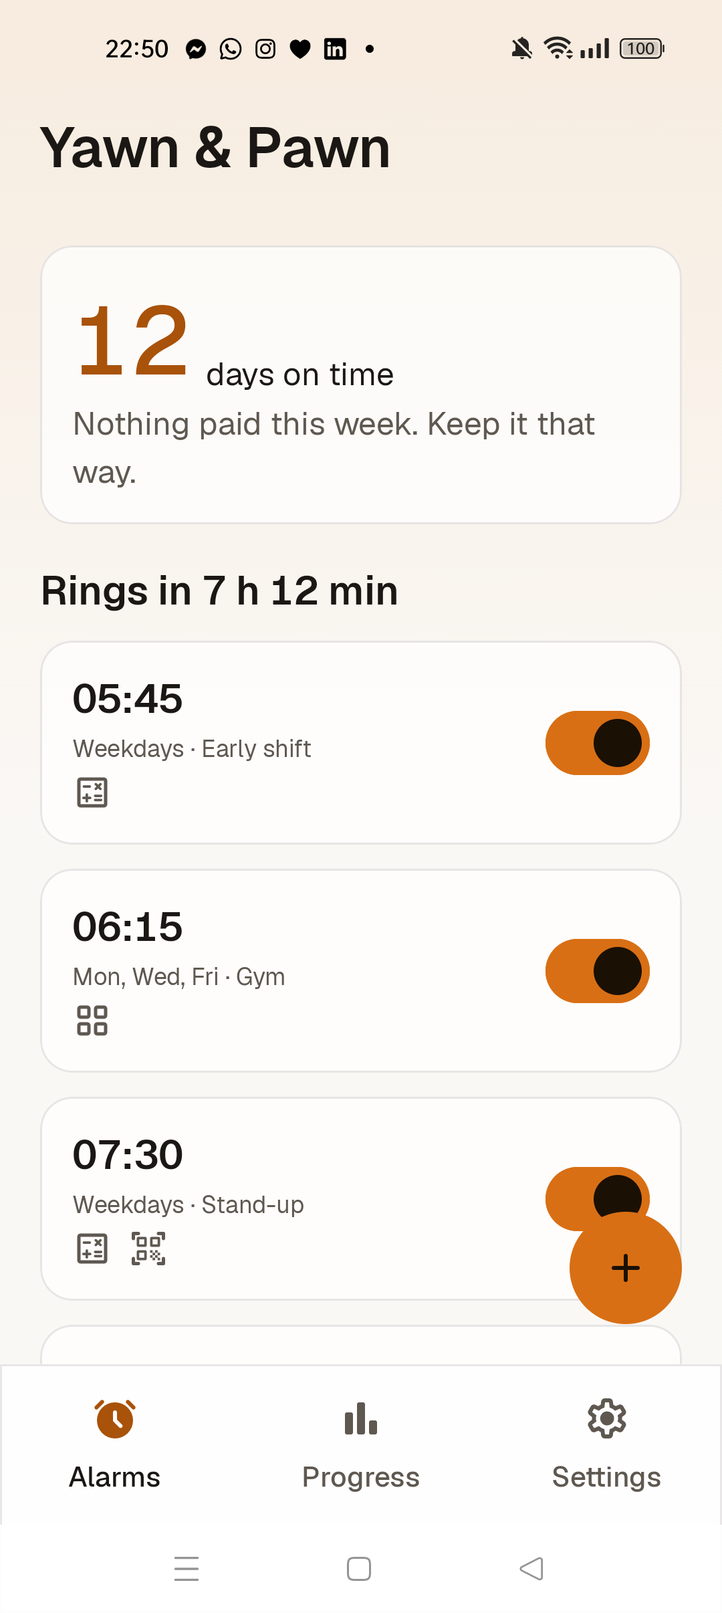
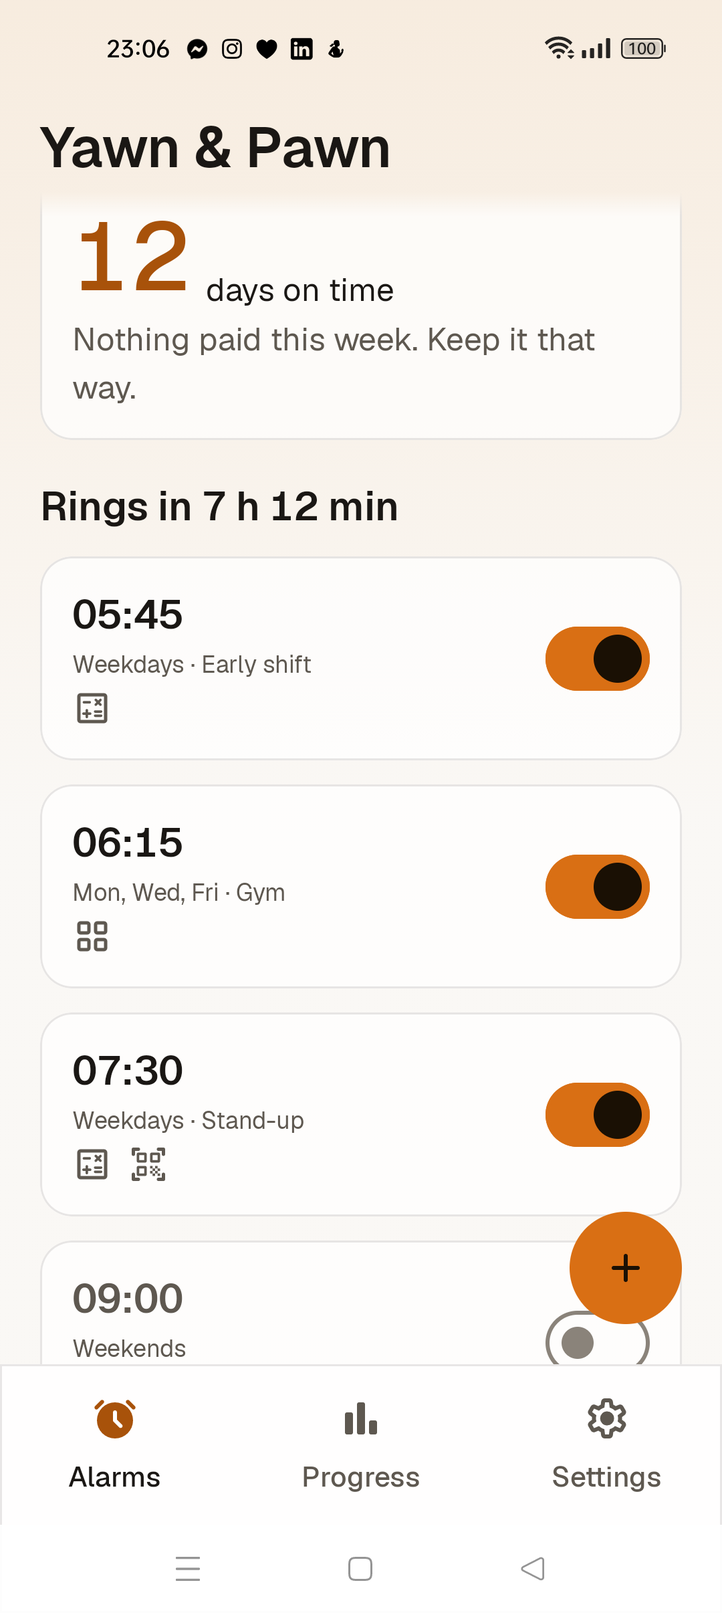
fix(preview): collapsed Home header fades content, one-row chips, FAB clearance

diff --git a/composeApp/src/commonMain/kotlin/com/yawnandpawn/app/ui/home/HomeHeader.kt b/composeApp/src/commonMain/kotlin/com/yawnandpawn/app/ui/home/HomeHeader.kt
@@ -1,9 +1,6 @@
 package com.yawnandpawn.app.ui.home
 
-import androidx.compose.foundation.layout.Arrangement
 import androidx.compose.foundation.layout.Box
-import androidx.compose.foundation.layout.ExperimentalLayoutApi
-import androidx.compose.foundation.layout.FlowRow
 import androidx.compose.foundation.layout.Row
 import androidx.compose.foundation.layout.padding
 import androidx.compose.foundation.lazy.LazyListState
@@ -14,13 +11,20 @@ import androidx.compose.runtime.derivedStateOf
 import androidx.compose.runtime.remember
 import androidx.compose.ui.Alignment
 import androidx.compose.ui.Modifier
+import androidx.compose.ui.draw.drawWithContent
+import androidx.compose.ui.graphics.BlendMode
+import androidx.compose.ui.graphics.Brush
+import androidx.compose.ui.graphics.Color
+import androidx.compose.ui.graphics.CompositingStrategy
 import androidx.compose.ui.graphics.TransformOrigin
 import androidx.compose.ui.graphics.graphicsLayer
+import androidx.compose.ui.layout.Layout
 import androidx.compose.ui.platform.LocalDensity
 import androidx.compose.ui.semantics.clearAndSetSemantics
 import androidx.compose.ui.semantics.heading
 import androidx.compose.ui.semantics.semantics
 import androidx.compose.ui.unit.dp
+import com.yawnandpawn.app.ui.components.GlassBackdrop
 import com.yawnandpawn.app.ui.components.glass
 import com.yawnandpawn.app.ui.components.rememberReducedMotion
 import com.yawnandpawn.app.ui.resources.Res
@@ -29,6 +33,7 @@ import com.yawnandpawn.app.ui.resources.home_streak_day
 import com.yawnandpawn.app.ui.resources.home_streak_days
 import com.yawnandpawn.app.ui.theme.PpsTheme
 import org.jetbrains.compose.resources.stringResource
+import kotlin.math.roundToInt
 
 /** The Home list key of `card-hero`, whose scroll position drives the collapsing header. */
 internal const val HERO_KEY = "hero"
@@ -80,65 +85,135 @@ internal fun rememberHeaderCollapse(listState: LazyListState): HeaderCollapse {
 
 /**
  * The pinned Home header: "Yawn & Pawn" top-left (like "Lahti"), gaining a frosted `glass-bar` chip behind it as
- * content scrolls under it, and, as the hero collapses, a compact streak chip ("12 days on time") fading in beside it.
- * The compact chip is decorative for TalkBack (the hero card says the same).
+ * content scrolls under it and shrinking from `headline` to `title` size as the hero collapses, and a compact streak
+ * chip ("12 days on time") fading in beside it. Both chips are `glass-strong` and blur [backdrop] on Android 12+. The
+ * compact chip stays on the title's row whenever it fits beside the shrunk title (it wraps only at large font scales);
+ * the row height never changes with the scroll. The compact chip is decorative for TalkBack (the hero card says it).
  */
-@OptIn(ExperimentalLayoutApi::class)
 @Composable
 internal fun HomeHeader(
     streakDays: Int?,
     collapse: HeaderCollapse?,
     modifier: Modifier = Modifier,
+    backdrop: GlassBackdrop? = null,
 ) {
     val colors = PpsTheme.colors
     val spacing = PpsTheme.spacing
-    FlowRow(
+    val titleScale = { 1f - (1f - TITLE_MIN_SCALE) * (collapse?.hero ?: 0f) }
+    Layout(
         modifier = modifier.padding(start = spacing.screenMargin - spacing.space3, end = spacing.screenMargin, top = spacing.space3),
-        horizontalArrangement = Arrangement.spacedBy(spacing.space2),
-        verticalArrangement = Arrangement.spacedBy(spacing.space2),
-        itemVerticalAlignment = Alignment.CenterVertically,
-    ) {
-        Box {
+        content = {
             Box(
                 modifier =
-                    Modifier.matchParentSize().graphicsLayer { alpha = collapse?.chip ?: 0f }.glass(
-                        PpsTheme.shapes.full,
-                        strong = true,
-                    ),
-            )
-            Text(
-                text = stringResource(Res.string.app_name),
-                modifier = Modifier.padding(horizontal = spacing.space3, vertical = spacing.space1).semantics { heading() },
-                style = PpsTheme.typography.headline,
-                color = colors.text,
-            )
-        }
-        if (streakDays != null && collapse != null) {
-            Row(
-                modifier =
-                    Modifier
-                        .graphicsLayer {
-                            // Cross-fade: the compact chip appears only once the hero is mostly gone, so the two never
-                            // show the streak twice at once.
-                            val shown = ((collapse.hero - COMPACT_START) / (1f - COMPACT_START)).coerceIn(0f, 1f)
-                            alpha = shown
-                            translationY = (1f - shown) * COMPACT_RISE.toPx()
-                        }.glass(PpsTheme.shapes.full, strong = true)
-                        .padding(horizontal = spacing.space3, vertical = spacing.space1)
-                        .clearAndSetSemantics { },
-                verticalAlignment = Alignment.CenterVertically,
+                    Modifier.graphicsLayer {
+                        val scale = titleScale()
+                        scaleX = scale
+                        scaleY = scale
+                        transformOrigin = TransformOrigin(0f, HALF)
+                    },
             ) {
-                Text(text = streakDays.toString(), style = PpsTheme.typography.title, color = colors.accentText)
+                Box(
+                    modifier =
+                        Modifier
+                            .matchParentSize()
+                            .graphicsLayer { alpha = collapse?.chip ?: 0f }
+                            .glass(PpsTheme.shapes.full, strong = true, backdrop = backdrop),
+                )
                 Text(
-                    text = stringResource(if (streakDays == 1) Res.string.home_streak_day else Res.string.home_streak_days),
-                    modifier = Modifier.padding(start = spacing.space1),
-                    style = PpsTheme.typography.label,
+                    text = stringResource(Res.string.app_name),
+                    modifier = Modifier.padding(horizontal = spacing.space3, vertical = spacing.space1).semantics { heading() },
+                    style = PpsTheme.typography.headline,
                     color = colors.text,
                 )
+            }
+            if (streakDays != null && collapse != null) CompactStreak(streakDays, collapse, backdrop)
+        },
+        measurePolicy = headerMeasurePolicy(spacing.space2, titleScale),
+    )
+}
+
+/** Title then compact chip: on one row when the chip fits beside the fully collapsed title, else under it. */
+private fun headerMeasurePolicy(
+    gapDp: androidx.compose.ui.unit.Dp,
+    titleScale: () -> Float,
+) = androidx.compose.ui.layout.MeasurePolicy { measurables, constraints ->
+    val loose = constraints.copy(minWidth = 0, minHeight = 0)
+    val title = measurables[0].measure(loose)
+    val compact = measurables.getOrNull(1)?.measure(loose)
+    val gap = gapDp.roundToPx()
+    // Decided on the fully collapsed title, so it never flips (or changes the height) while scrolling.
+    val fits = compact == null || (title.width * TITLE_MIN_SCALE).roundToInt() + gap + compact.width <= constraints.maxWidth
+    val height =
+        when {
+            compact == null -> title.height
+            fits -> maxOf(title.height, compact.height)
+            else -> title.height + gap + compact.height
+        }
+    layout(constraints.maxWidth, height) {
+        title.placeRelative(0, 0)
+        if (compact != null) {
+            if (fits) {
+                // Follows the shrinking title, read at placement so scrolling only re-places it.
+                compact.placeRelative((title.width * titleScale()).roundToInt() + gap, (title.height - compact.height) / 2)
+            } else {
+                compact.placeRelative(0, title.height + gap)
             }
         }
     }
 }
+
+/** The compact "{streak} days on time" chip; fades and rises in during the second half of the collapse. */
+@Composable
+private fun CompactStreak(
+    streakDays: Int,
+    collapse: HeaderCollapse,
+    backdrop: GlassBackdrop?,
+) {
+    val colors = PpsTheme.colors
+    val spacing = PpsTheme.spacing
+    Row(
+        modifier =
+            Modifier
+                .graphicsLayer {
+                    // Cross-fade: the compact chip appears only once the hero is mostly gone, so the two
+                    // never show the streak twice at once.
+                    val shown = ((collapse.hero - COMPACT_START) / (1f - COMPACT_START)).coerceIn(0f, 1f)
+                    alpha = shown
+                    translationY = (1f - shown) * COMPACT_RISE.toPx()
+                }.glass(PpsTheme.shapes.full, strong = true, backdrop = backdrop)
+                .padding(horizontal = spacing.space3, vertical = spacing.space1)
+                .clearAndSetSemantics { },
+        verticalAlignment = Alignment.CenterVertically,
+    ) {
+        Text(text = streakDays.toString(), style = PpsTheme.typography.title, color = colors.accentText)
+        Text(
+            text = stringResource(if (streakDays == 1) Res.string.home_streak_day else Res.string.home_streak_days),
+            modifier = Modifier.padding(start = spacing.space1),
+            style = PpsTheme.typography.label,
+            color = colors.text,
+        )
+    }
+}
+
+/**
+ * The header zone (owner feedback 2026-09-28): scrolled content fades out as it enters it, from fully visible at
+ * [zoneBottom] plus [fade] to gone at [zoneBottom] (the bottom of the pinned chips), so no card text shows behind or
+ * above the chips. At rest the list starts exactly below the fade, so nothing is dimmed.
+ */
+internal fun Modifier.fadeUnderHeader(
+    zoneBottom: () -> Float,
+    fade: Float,
+    opaque: Color,
+): Modifier =
+    graphicsLayer { compositingStrategy = CompositingStrategy.Offscreen }
+        .drawWithContent {
+            drawContent()
+            val start = zoneBottom()
+            drawRect(
+                brush = Brush.verticalGradient(listOf(Color.Transparent, opaque), startY = start, endY = start + fade),
+                blendMode = BlendMode.DstIn,
+            )
+        }
 
 /** The hero fades (gone at 60%), shrinks a little towards its top-left corner and lags behind the scroll as it collapses. */
 internal fun Modifier.collapsingHero(collapse: HeaderCollapse): Modifier =
@@ -153,6 +228,9 @@ internal fun Modifier.collapsingHero(collapse: HeaderCollapse): Modifier =
     }
 
 private const val HALF = 0.5f
+
+/** The collapsed title is `title` size (20 sp) instead of `headline` (28 sp), like the small pinned "Lahti". */
+private const val TITLE_MIN_SCALE = 20f / 28f
 private const val HERO_SHRINK = 0.1f
 private const val HERO_LAG = 0.2f
 

diff --git a/composeApp/src/commonMain/kotlin/com/yawnandpawn/app/ui/home/HomeScreen.kt b/composeApp/src/commonMain/kotlin/com/yawnandpawn/app/ui/home/HomeScreen.kt
@@ -48,6 +48,8 @@ import com.yawnandpawn.app.ui.components.PpsFilledButton
 import com.yawnandpawn.app.ui.components.PpsSwitch
 import com.yawnandpawn.app.ui.components.RowIcon
 import com.yawnandpawn.app.ui.components.glass
+import com.yawnandpawn.app.ui.components.glassSource
+import com.yawnandpawn.app.ui.components.rememberGlassBackdrop
 import com.yawnandpawn.app.ui.format.Countdown
 import com.yawnandpawn.app.ui.format.countdownText
 import com.yawnandpawn.app.ui.format.formatClockTime
@@ -131,11 +133,19 @@ private fun HomeList(
     val density = LocalDensity.current
     val collapse = rememberHeaderCollapse(listState)
     var headerHeight by remember { mutableStateOf(0.dp) }
+    val backdrop = rememberGlassBackdrop()
+    val statusBarTop = WindowInsets.statusBars.getTop(density)
+    val fade = with(density) { spacing.space3.toPx() }
+    val opaque = PpsTheme.colors.text
     Box(modifier = Modifier.fillMaxSize()) {
         LazyColumn(
             state = listState,
-            modifier = Modifier.fillMaxSize(),
-            // Starts below the pinned header; room below the last card for the FAB (56 dp plus its margins).
+            modifier =
+                Modifier
+                    .fillMaxSize()
+                    .glassSource(backdrop)
+                    .fadeUnderHeader(zoneBottom = { statusBarTop + with(density) { headerHeight.toPx() } }, fade = fade, opaque = opaque),
+            // Starts below the pinned header (and its fade); room below the last card so its switch clears the FAB.
             contentPadding =
                 PaddingValues(
                     start = spacing.screenMargin,
@@ -147,16 +157,7 @@ private fun HomeList(
         ) {
             item(key = "notices") { Notices(state = state, is24Hour = is24Hour, onIntent = onIntent) }
             state.hero?.let { hero -> item(key = HERO_KEY) { HeroCard(hero, modifier = Modifier.collapsingHero(collapse)) } }
-            state.nextAlarm?.let { countdown ->
-                item(key = "next") {
-                    Text(
-                        text = countdownText(countdown),
-                        modifier = Modifier.padding(top = spacing.space2),
-                        style = PpsTheme.typography.title,
-                        color = PpsTheme.colors.text,
-                    )
-                }
-            }
+            state.nextAlarm?.let { countdown -> item(key = "next") { NextAlarm(countdown) } }
             items(state.alarms, key = { it.id }) { alarm ->
                 AlarmCardView(
                     // Cards animate in and out when an alarm is added or removed (owner decision 2026-09-27).
@@ -168,23 +169,27 @@ private fun HomeList(
                 )
             }
         }
-        // The status bar keeps the top of the background, so cards never run under the clock and icons.
-        Box(
-            modifier =
-                Modifier
-                    .fillMaxWidth()
-                    .windowInsetsTopHeight(WindowInsets.statusBars)
-                    .background(PpsTheme.colors.gradientTop),
-        )
         HomeHeader(
             streakDays = state.hero?.streakDays,
             collapse = collapse,
+            backdrop = backdrop,
             modifier =
                 Modifier
                     .windowInsetsPadding(WindowInsets.statusBars)
                     .onSizeChanged { headerHeight = with(density) { it.height.toDp() } },
         )
     }
+}
+
+/** "Rings in ..." above the alarm cards. */
+@Composable
+private fun NextAlarm(countdown: Countdown) {
+    Text(
+        text = countdownText(countdown),
+        modifier = Modifier.padding(top = PpsTheme.spacing.space2),
+        style = PpsTheme.typography.title,
+        color = PpsTheme.colors.text,
+    )
 }
 
 /** Banners and the missed note, stacked above the hero. */
@@ -408,4 +413,6 @@ private fun DisableDialog(
 }
 
 private const val HOURS_PER_DAY = 24
-private val LIST_BOTTOM_PADDING = 96.dp
+
+/** FAB 56 dp + its 20 dp margin + a 24 dp gap, so the last card's switch is above the FAB when scrolled to the end. */
+private val LIST_BOTTOM_PADDING = 100.dp

diff --git a/_bmad-output/planning-artifacts/ux-designs/ux-pay-per-snooze-2026-09-26/DESIGN.md b/_bmad-output/planning-artifacts/ux-designs/ux-pay-per-snooze-2026-09-26/DESIGN.md
@@ -291,7 +291,7 @@ components:
     compactChipColor: '{colors.glass-strong}'
     compactNumberColor: '{colors.accent-text}'
     compactNumberTypography: '{typography.title}'
-    note: 'Home header (owner decision 2026-09-28, Samsung Weather). Title pinned top-left in headline; glass chip fades in over the first 16dp of scroll; card-hero fades out by 60% of the collapse, shrinks 10% and lags 20% as it scrolls under; from 50% the compact streak chip fades and rises 8dp in beside (or, when it does not fit, under) the title.'
+    note: 'Home header (owner decision 2026-09-28, Samsung Weather). Title pinned top-left in headline; glass chip fades in over the first 16dp of scroll; card-hero fades out by 60% of the collapse, shrinks 10% and lags 20% as it scrolls under; from 50% the compact streak chip fades and rises 8dp in beside (or, when it does not fit, under) the title. Title shrinks from headline to title size (like the small pinned ''Lahti'') so the compact chip stays on its row (wraps only when it cannot fit, e.g. 200% font). Both chips are glass-strong with real blur on API 31+. Scrolled content fades out over the 12 dp above the bottom of the chips and is hidden from there up through the status bar, so no card text shows behind or above the chips. The last card clears the FAB (100 dp bottom padding).'
   pill-save:
     backgroundColor: '{colors.glass-strong}'
     borderColor: '{colors.glass-edge}'
@@ -666,7 +666,7 @@ Visual specs. Behaviour for every row lives in `EXPERIENCE.md > Component Patter
 | `background-gradient` | Every screen's background: `gradient-top` fading into `bg` over the top 60% (Sunrise: `sunrise-gradient-top` into `bg-sunrise` over the top 40%), flat below. No accent directly on it. |
 | `card-group` | `{colors.glass}` fill, `{spacing.hairline}` `glass-edge` border, `{rounded.md}`. Rows inside have `{spacing.card-padding}` side padding and hairline `glass-edge` dividers between them. Used for every group of settings: editor, sub-screens, Settings, pickers, onboarding. |
 | `glass-bar` | `{colors.glass-strong}` with a `glass-edge` hairline, background blur `{spacing.glass-blur}` on Android 12+. For `pill-save`, `nav-bar` and `sheet-snooze-confirm`. |
-| `header-collapsing` | Home only. "Yawn & Pawn" pinned top-left in `headline`; a `glass-strong` pill chip fades in behind it over the first 16 dp of scroll. `card-hero` fades out by 60% of the collapse, shrinks to 90% towards its top-left and lags 20% of its height as it scrolls under the header; from 50% (a cross-fade, so the streak never shows twice) the compact chip (`glass-strong`, streak number in `title` / `accent-text`, "days on time" in `label`) fades and rises 8 dp in beside the title. The status bar area keeps `gradient-top` so nothing runs under the clock. |
+| `header-collapsing` | Home only. "Yawn & Pawn" pinned top-left in `headline`; a `glass-strong` pill chip fades in behind it over the first 16 dp of scroll. `card-hero` fades out by 60% of the collapse, shrinks to 90% towards its top-left and lags 20% of its height as it scrolls under the header; from 50% (a cross-fade, so the streak never shows twice) the compact chip (`glass-strong`, streak number in `title` / `accent-text`, "days on time" in `label`) fades and rises 8 dp in beside the title. The title shrinks from `headline` to `title` size as it collapses, so the compact chip stays beside it (it wraps under only when it cannot fit, e.g. at 200%); both chips blur on Android 12+. **Header zone:** scrolled content fades out over the 12 dp above the bottom of the chips and is hidden above that, through the status bar, so no card text shows behind or above the chips. The list ends 100 dp above the nav bar so the last card clears the FAB. |
 | `pill-save` | `glass-bar` in its own bottom area (never over content), 56 dp, `{rounded.full}`, full width minus `screen-margin`, two equal halves split by a hairline: "Cancel" (`text`) and "Save" (`accent-text`, bold), both `label`, each at least 48 dp. |
 | `fab` | 56 dp, `{rounded.full}`, accent fill, "+" in on-accent. Bottom right, 20 dp from edges. |
 | `banner-warning` | `{colors.glass}` fill with a `glass-edge` hairline, `{rounded.md}`, leading `error` icon in `{colors.error}`, message in `body`, `button-text` "Fix". Info variant: `info` icon in `text-secondary`, no error colour. |

diff --git a/docs/DESIGN.md b/docs/DESIGN.md
@@ -291,7 +291,7 @@ components:
     compactChipColor: '{colors.glass-strong}'
     compactNumberColor: '{colors.accent-text}'
     compactNumberTypography: '{typography.title}'
-    note: 'Home header (owner decision 2026-09-28, Samsung Weather). Title pinned top-left in headline; glass chip fades in over the first 16dp of scroll; card-hero fades out by 60% of the collapse, shrinks 10% and lags 20% as it scrolls under; from 50% the compact streak chip fades and rises 8dp in beside (or, when it does not fit, under) the title.'
+    note: 'Home header (owner decision 2026-09-28, Samsung Weather). Title pinned top-left in headline; glass chip fades in over the first 16dp of scroll; card-hero fades out by 60% of the collapse, shrinks 10% and lags 20% as it scrolls under; from 50% the compact streak chip fades and rises 8dp in beside (or, when it does not fit, under) the title. Title shrinks from headline to title size (like the small pinned ''Lahti'') so the compact chip stays on its row (wraps only when it cannot fit, e.g. 200% font). Both chips are glass-strong with real blur on API 31+. Scrolled content fades out over the 12 dp above the bottom of the chips and is hidden from there up through the status bar, so no card text shows behind or above the chips. The last card clears the FAB (100 dp bottom padding).'
   pill-save:
     backgroundColor: '{colors.glass-strong}'
     borderColor: '{colors.glass-edge}'
@@ -666,7 +666,7 @@ Visual specs. Behaviour for every row lives in `EXPERIENCE.md > Component Patter
 | `background-gradient` | Every screen's background: `gradient-top` fading into `bg` over the top 60% (Sunrise: `sunrise-gradient-top` into `bg-sunrise` over the top 40%), flat below. No accent directly on it. |
 | `card-group` | `{colors.glass}` fill, `{spacing.hairline}` `glass-edge` border, `{rounded.md}`. Rows inside have `{spacing.card-padding}` side padding and hairline `glass-edge` dividers between them. Used for every group of settings: editor, sub-screens, Settings, pickers, onboarding. |
 | `glass-bar` | `{colors.glass-strong}` with a `glass-edge` hairline, background blur `{spacing.glass-blur}` on Android 12+. For `pill-save`, `nav-bar` and `sheet-snooze-confirm`. |
-| `header-collapsing` | Home only. "Yawn & Pawn" pinned top-left in `headline`; a `glass-strong` pill chip fades in behind it over the first 16 dp of scroll. `card-hero` fades out by 60% of the collapse, shrinks to 90% towards its top-left and lags 20% of its height as it scrolls under the header; from 50% (a cross-fade, so the streak never shows twice) the compact chip (`glass-strong`, streak number in `title` / `accent-text`, "days on time" in `label`) fades and rises 8 dp in beside the title. The status bar area keeps `gradient-top` so nothing runs under the clock. |
+| `header-collapsing` | Home only. "Yawn & Pawn" pinned top-left in `headline`; a `glass-strong` pill chip fades in behind it over the first 16 dp of scroll. `card-hero` fades out by 60% of the collapse, shrinks to 90% towards its top-left and lags 20% of its height as it scrolls under the header; from 50% (a cross-fade, so the streak never shows twice) the compact chip (`glass-strong`, streak number in `title` / `accent-text`, "days on time" in `label`) fades and rises 8 dp in beside the title. The title shrinks from `headline` to `title` size as it collapses, so the compact chip stays beside it (it wraps under only when it cannot fit, e.g. at 200%); both chips blur on Android 12+. **Header zone:** scrolled content fades out over the 12 dp above the bottom of the chips and is hidden above that, through the status bar, so no card text shows behind or above the chips. The list ends 100 dp above the nav bar so the last card clears the FAB. |
 | `pill-save` | `glass-bar` in its own bottom area (never over content), 56 dp, `{rounded.full}`, full width minus `screen-margin`, two equal halves split by a hairline: "Cancel" (`text`) and "Save" (`accent-text`, bold), both `label`, each at least 48 dp. |
 | `fab` | 56 dp, `{rounded.full}`, accent fill, "+" in on-accent. Bottom right, 20 dp from edges. |
 | `banner-warning` | `{colors.glass}` fill with a `glass-edge` hairline, `{rounded.md}`, leading `error` icon in `{colors.error}`, message in `body`, `button-text` "Fix". Info variant: `info` icon in `text-secondary`, no error colour. |

diff --git a/_bmad-output/planning-artifacts/ux-designs/ux-pay-per-snooze-2026-09-26/EXPERIENCE.md b/_bmad-output/planning-artifacts/ux-designs/ux-pay-per-snooze-2026-09-26/EXPERIENCE.md
@@ -324,7 +324,7 @@ Behavioural rules. Visual specs for every row live in `DESIGN.md > Components` u
 | `settings-row` | Editor, Settings, pickers | Progressive disclosure (owner decision 2026-09-27): title with the current value as a subtitle and a chevron; tap opens the sub-screen that sets it (back arrow returns, the change is kept). A toggle row has a switch instead. Rows unavailable during a session. |
 | `card-group` | Every app screen | Related rows grouped in one glass card with dividers (owner decision 2026-09-27, like the stock Clock apps). Not interactive itself. |
 | `pill-save` | Editor (and later setup screens with a Save) | "Cancel \| Save" in its own bottom area (owner decision 2026-09-28): content scrolls above it, never under it, and the last row is fully visible at the end. Cancel = Back (unsaved changes ask "Discard changes?"). Stays above the keyboard with the focused field visible. Save is disabled while saving. |
-| `header-collapsing` | Home | Continuous and tied to the scroll position, never a snap (owner decision 2026-09-28, Samsung Weather): the title stays pinned and gains its glass chip as content scrolls under it; the hero collapses into the compact "{streak} days on time" chip; alarm cards scroll underneath. Reduced motion: each part switches instantly at the halfway point. The compact chip is not read by TalkBack (the hero card says the same). |
+| `header-collapsing` | Home | Continuous and tied to the scroll position, never a snap (owner decision 2026-09-28, Samsung Weather): the title stays pinned and gains its glass chip as content scrolls under it; the hero collapses into the compact "{streak} days on time" chip; alarm cards scroll underneath and fade out as they enter the header zone (no card text readable behind or above the chips); the title shrinks to `title` size so the compact chip stays on its row. Scrolled to the end, the last card is fully above the FAB. Reduced motion: each part switches instantly at the halfway point. The compact chip is not read by TalkBack (the hero card says the same). |
 | `glass-bar` | Bottom pill, nav bar, snooze confirm sheet | Translucent glass over moving content; blurs it on Android 12+, plain translucent below. |
 | `background-gradient` | Every screen | Static; never animates. |
 | `purchase-row` | Purchase history | Read-only. Shows what was charged; stranded purchases read "Not used, refunded automatically by Google". Self-requested refunds are not detectable (PRD §6.3). |

diff --git a/docs/EXPERIENCE.md b/docs/EXPERIENCE.md
@@ -324,7 +324,7 @@ Behavioural rules. Visual specs for every row live in `DESIGN.md > Components` u
 | `settings-row` | Editor, Settings, pickers | Progressive disclosure (owner decision 2026-09-27): title with the current value as a subtitle and a chevron; tap opens the sub-screen that sets it (back arrow returns, the change is kept). A toggle row has a switch instead. Rows unavailable during a session. |
 | `card-group` | Every app screen | Related rows grouped in one glass card with dividers (owner decision 2026-09-27, like the stock Clock apps). Not interactive itself. |
 | `pill-save` | Editor (and later setup screens with a Save) | "Cancel \| Save" in its own bottom area (owner decision 2026-09-28): content scrolls above it, never under it, and the last row is fully visible at the end. Cancel = Back (unsaved changes ask "Discard changes?"). Stays above the keyboard with the focused field visible. Save is disabled while saving. |
-| `header-collapsing` | Home | Continuous and tied to the scroll position, never a snap (owner decision 2026-09-28, Samsung Weather): the title stays pinned and gains its glass chip as content scrolls under it; the hero collapses into the compact "{streak} days on time" chip; alarm cards scroll underneath. Reduced motion: each part switches instantly at the halfway point. The compact chip is not read by TalkBack (the hero card says the same). |
+| `header-collapsing` | Home | Continuous and tied to the scroll position, never a snap (owner decision 2026-09-28, Samsung Weather): the title stays pinned and gains its glass chip as content scrolls under it; the hero collapses into the compact "{streak} days on time" chip; alarm cards scroll underneath and fade out as they enter the header zone (no card text readable behind or above the chips); the title shrinks to `title` size so the compact chip stays on its row. Scrolled to the end, the last card is fully above the FAB. Reduced motion: each part switches instantly at the halfway point. The compact chip is not read by TalkBack (the hero card says the same). |
 | `glass-bar` | Bottom pill, nav bar, snooze confirm sheet | Translucent glass over moving content; blurs it on Android 12+, plain translucent below. |
 | `background-gradient` | Every screen | Static; never animates. |
 | `purchase-row` | Purchase history | Read-only. Shows what was charged; stranded purchases read "Not used, refunded automatically by Google". Self-requested refunds are not detectable (PRD §6.3). |
